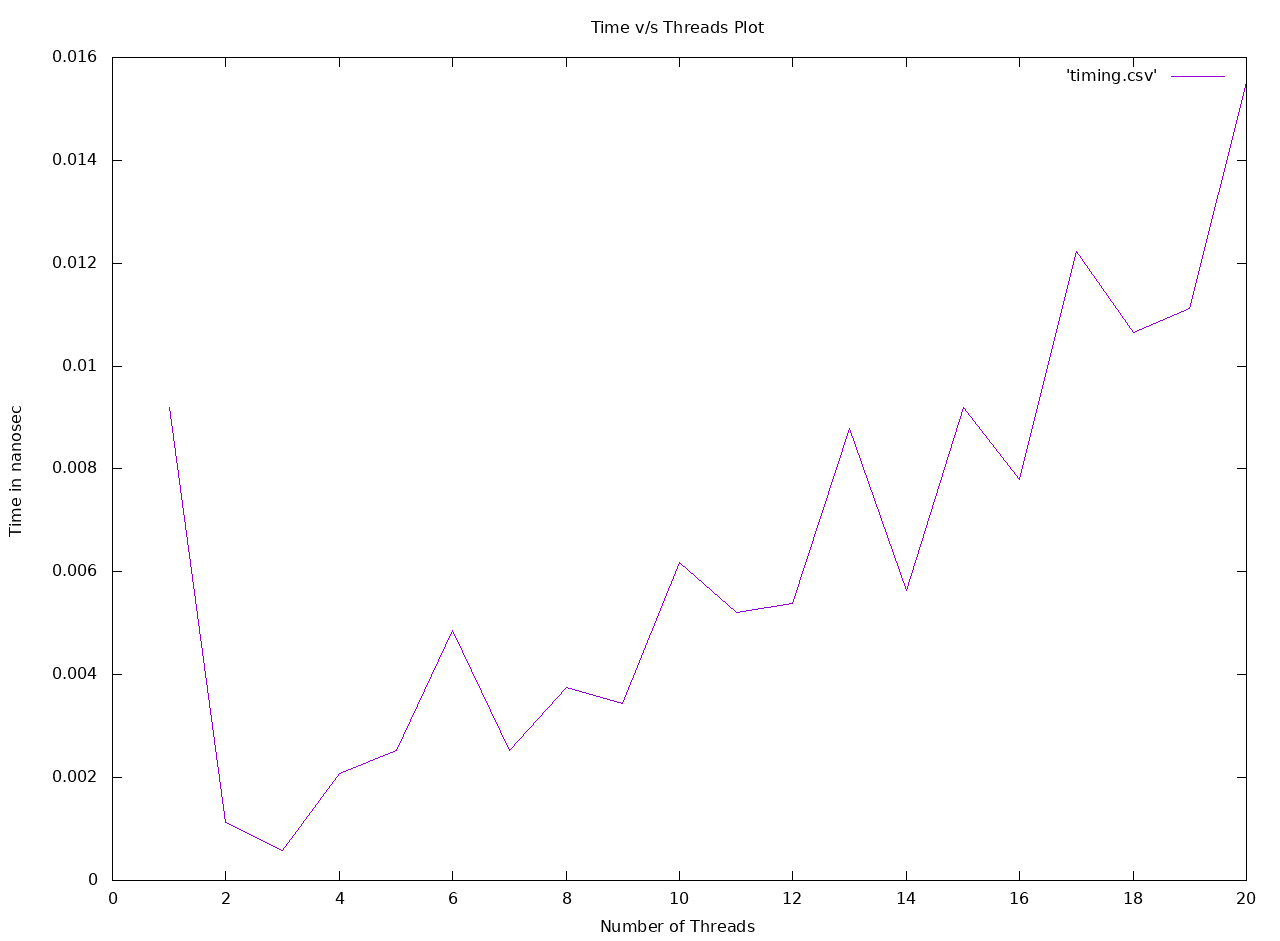
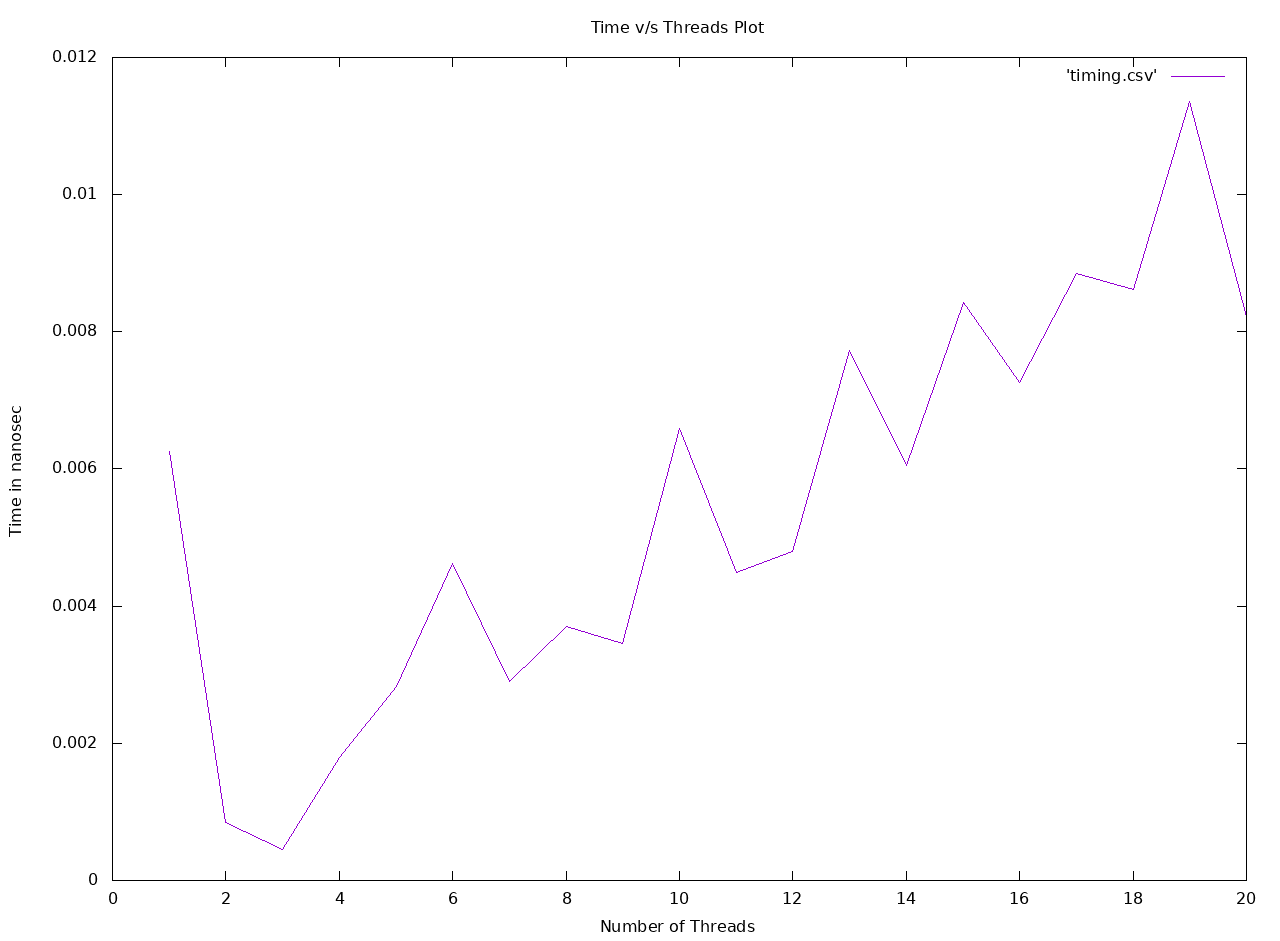
P1, P2 SHM working sequential

diff --git a/p2IPC.c b/p2IPC.c
@@ -38,12 +38,12 @@ typedef struct {
     int lines_per_thread;
 } file_read_data;
 
-
-/* function declarations  */
-int read_matrix (const char*);
-void *thread_read (void *);
-void create_threads_and_read (int, int, int, file_read_data, FILE *);
-
+typedef struct {
+    lli* row;
+    int row_no;
+    int start_column;
+    int end_column;
+} working_cells_data;
 
 /* single-threaded function to read matrix from the text file  */
 int read_matrix (const char* filename) {
@@ -87,7 +87,6 @@ int read_matrix (const char* filename) {
     fclose (fp); 
     return EXIT_SUCCESS;
 }
-
 
 
 void *thread_read (void *arg) {
@@ -142,59 +141,6 @@ void *thread_read (void *arg) {
 
     printf ("Thread execution completed successfully\n");
     fclose (fp);
-}
-
-void shared_memory (file_read_data file) {
-    /* get input file number from the file name  */
-    char *filename_as_string;
-    filename_as_string = (char *) malloc(10);
-    strcpy (filename_as_string, file.filename);
-    int file_number = filename_as_string[2] - '0';
-
-    // shmget returns an identifier in shmid
-    lli rows = file.max_rows;
-    lli cols = file.cols;
-
-    if (file_number == 1) {
-        key_t key1 = ftok(file.filename, 65);
-        // int shmid1 = shmget(key1, (rows) * sizeof (lli*), 0666|IPC_CREAT);
-        int shmid1 = shmget(key1, (cols) * sizeof (lli *), 0666|IPC_CREAT);
-        lli *str1 = (lli*) shmat(shmid1, 0, 0);
-
-        lli k = 0;
-        for (lli i = 0; i < rows; ++i){
-            for (lli j = 0; j < cols; ++j){
-                str1[k] = matrix1[i][j];
-                k++;
-            }
-        }
-
-        shmdt(str1);
-        shmctl (shmid1, IPC_RMID, NULL);
-    } else {
-        key_t key2 = ftok(file.filename, 66);
-        // matrix1 = (lli **) malloc (I *  sizeof (lli *));
-        int shmid2 = shmget(key2, rows * sizeof (lli *), 0666|IPC_CREAT);
-        // int shmid2 = shmget(key2, (rows * cols * sizeof (lli *)), 0666|IPC_CREAT);
-        // matrix2 = (lli **) malloc (J * sizeof (lli *));
-
-
-        // (rows) * (cols * sizeof (lli *))
-        lli **str2 = (lli**) shmat(shmid2, 0, 0);
-        for (lli _j = 0; _j < rows; ++_j) {
-            str2[_j] = (lli *) malloc(cols * sizeof(lli));
-        }
-
-        for (lli i = 0; i < rows; ++i) {
-            for (lli j = 0; j < cols; ++j) {
-                str2[i][j] = matrix2[i][j];
-            }
-        }
-
-        // str = matrix2;
-        shmdt(str2);
-        shmctl (shmid2, IPC_RMID, NULL);
-    }
 }
 
 /* function to create threads and read text file  */
@@ -253,6 +199,116 @@ void create_threads_and_read (int rows, int cols, int max_thread_count, file_rea
     // fclose (fp); 
 }
 
+
+void *thread_multiply (void *arg) {
+    printf ("In thread_multiply function\n");
+    working_cells_data data = *(working_cells_data*) arg;
+
+    // ? --- DEBUG STATEMENTS ---
+    // printf ("start_row: %d\n", start_row);
+    // printf ("end_row: %d\n", end_row);
+    // printf ("max_row: %lld\n", max_rows);
+    // printf ("cols: %d\n", cols);
+    for(int n=data.start_column; n<=data.end_column; n++)
+    {
+        output[data.row_no][n]=0;
+        for(int i=0; i<J; i++)
+        {
+            output[data.row_no][n] += data.row[i]*matrix2[i][n];
+        }
+        printf ("calculated cell: %lld\n", output[data.row_no][n]);
+    }
+    
+
+    printf ("Thread execution completed successfully\n");
+}
+
+void shared_memory (file_read_data file) {
+    /* get input file number from the file name  */
+    char *filename_as_string;
+    filename_as_string = (char *) malloc(10);
+    strcpy (filename_as_string, file.filename);
+    int file_number = filename_as_string[2] - '0';
+
+    // shmget returns an identifier in shmid
+    lli rows = file.max_rows;
+    lli cols = file.cols;
+
+    if (file_number == 1) {
+        key_t key1 = ftok(file.filename, 65);
+        // int shmid1 = shmget(key1, (rows) * sizeof (lli*), 0666|IPC_CREAT);
+        int shmid1 = shmget(key1, (cols) * sizeof (lli *), 0666|IPC_CREAT);
+        lli *str1 = (lli*) shmat(shmid1, 0, 0);
+
+        lli k = 0;
+        for (lli i = 0; i < rows; ++i){
+            for (lli j = 0; j < cols; ++j){
+                // printf ("%lld ", str1[k]);
+                matrix1[i][j] = str1[k];
+                k++;
+            }
+            printf ("\n");
+        }
+
+        // shmdt(str1);
+        // shmctl (shmid1, IPC_RMID, NULL);
+    } else {
+        key_t key2 = ftok(file.filename, 66);
+        // matrix1 = (lli **) malloc (I *  sizeof (lli *));
+        int shmid2 = shmget(key2, rows * cols * sizeof (lli *), 0666|IPC_CREAT);
+        // matrix2 = (lli **) malloc (J * sizeof (lli *));
+
+        lli *str2 = (lli*) shmat(shmid2, 0, 0);
+
+
+        printf ("Reading matrix 2 from IPC:\n");
+        for (lli i = 0; i < rows; ++i) {
+            for (lli j = 0; j < cols; ++j) {
+                // str2[i * rows + j] = matrix2[i][j];
+                // printf ("%lld ", str2[i * rows + j]);
+                matrix2[i][j] = str2[i * rows + j];
+            }
+            printf ("\n");
+        }
+
+        // str = matrix2;
+        // shmdt(str2);
+        // shmctl (shmid2, IPC_RMID, NULL);
+    }
+}
+
+void create_threads_and_multiply (int max_thread_count, lli* row, int row_no) {
+
+    pthread_t threads[max_thread_count];    // {t1, t2}
+    int cells_done = 0;
+    // printf ("max_thread_count: %d\n", max_thread_count);
+    for (int i = 0; i < max_thread_count; ++i) {
+        int cells_per_thread = (K / max_thread_count);
+
+        // last thread may have some extra lines to read
+        if(i == max_thread_count - 1) {
+            cells_per_thread += (K % max_thread_count);
+        }
+
+        printf ("cells done: %d\n", cells_done);
+        working_cells_data work_data = {
+            .row = row,
+            .row_no = row_no,
+            .start_column = cells_done,
+            .end_column = (cells_done+cells_per_thread-1)
+        };
+
+        pthread_mutex_lock(&lock);
+        if (pthread_create(&threads[i], NULL, thread_multiply, &work_data)) {
+            fprintf(stderr, "pthread_create failed!\n");
+            exit (EXIT_FAILURE);
+        }
+        pthread_mutex_unlock(&lock);
+        pthread_join (threads[i], NULL);
+        cells_done += cells_per_thread;
+        }
+}
+
 int main (int argc, char **argv) {
     
     /* there must be exactly 7 cmd line args  */
@@ -297,8 +353,8 @@ int main (int argc, char **argv) {
     strcpy(out, argv[6]);
 
     /* READING VALUES FROM TXT FILE INTO MATRICES  */
-    read_matrix (in1);
-    read_matrix (in2);
+    // read_matrix (in1);
+    // read_matrix (in2);
 
     /*
         num_threads: lines_read 
@@ -351,7 +407,17 @@ int main (int argc, char **argv) {
     system(cmd);
     printf ("Graph plotted successfully\n");
 
-    printf ("After reading matrix 1...\n");
+    file_read_data file1 = {.filename = in1, .cols = J, .matrix = matrix1, .max_rows = I};
+    file_read_data file2 = {.filename = in2, .cols = K, .matrix = matrix2, .max_rows = J};
+
+    printf ("Reading matrix 2 from IPC\n");
+    shared_memory (file2);
+    printf ("SHM matrix 2 done\n");
+    printf ("Reading matrix 1 from IPC\n");
+    shared_memory (file1);
+    printf ("SHM matrix 1 done\n");
+
+    printf ("Matrix 1 from IPC...\n");
     for (lli row = 0; row < I; ++row) {
         for (lli col = 0; col < J; ++col) {
             printf ("%lld ", matrix1[row][col]);
@@ -359,7 +425,7 @@ int main (int argc, char **argv) {
         printf ("\n");
     }
 
-    printf ("After reading matrix 2...\n");
+    printf ("Matrix 2 from IPC...\n");
     for (lli row = 0; row < J; ++row) {
         for (lli col = 0; col < K; ++col) {
             printf ("%lld ", matrix2[row][col]);
@@ -367,13 +433,22 @@ int main (int argc, char **argv) {
         printf ("\n");
     }
 
-    file_read_data file1 = {.filename = in1, .cols = J, .matrix = matrix1, .max_rows = I};
-    file_read_data file2 = {.filename = in2, .cols = K, .matrix = matrix2, .max_rows = J};
+    for (int i = 0; i < I; ++i) {
+        if(MAX_THREADS > J) {
+            create_threads_and_multiply (J, matrix1[i], i);
+        } else {
+            create_threads_and_multiply (MAX_THREADS, matrix1[i], i);
+        }
+        
+    }
 
-    shared_memory (file2);
-    printf ("SHM matrix 2 done\n");
-    shared_memory (file1);
-    printf ("SHM matrix 1 done\n");
+    printf ("FINAL OUTPUT...\n");
+    for (lli row = 0; row < I; ++row) {
+        for (lli col = 0; col < K; ++col) {
+            printf ("%lld ", output[row][col]);
+        }
+        printf ("\n");
+    }
 
     printf ("Program success\n");
 

diff --git a/p1IPC.c b/p1IPC.c
@@ -170,30 +170,30 @@ void shared_memory (file_read_data file) {
         }
 
         shmdt(str1);
-        shmctl (shmid1, IPC_RMID, NULL);
+        // shmctl (shmid1, IPC_RMID, NULL);
     } else {
         key_t key2 = ftok(file.filename, 66);
         // matrix1 = (lli **) malloc (I *  sizeof (lli *));
-        int shmid2 = shmget(key2, rows * sizeof (lli *), 0666|IPC_CREAT);
+        int shmid2 = shmget(key2, rows * cols * sizeof (lli *), 0666|IPC_CREAT);
         // int shmid2 = shmget(key2, (rows * cols * sizeof (lli *)), 0666|IPC_CREAT);
         // matrix2 = (lli **) malloc (J * sizeof (lli *));
 
 
         // (rows) * (cols * sizeof (lli *))
-        lli **str2 = (lli**) shmat(shmid2, 0, 0);
-        for (lli _j = 0; _j < rows; ++_j) {
-            str2[_j] = (lli *) malloc(cols * sizeof(lli));
-        }
+
+        lli *str2 = (lli*) shmat(shmid2, 0, 0);
 
         for (lli i = 0; i < rows; ++i) {
             for (lli j = 0; j < cols; ++j) {
-                str2[i][j] = matrix2[i][j];
+                str2[i * rows + j] = matrix2[i][j];
+                // str2[i][j] = matrix2[i][j];
+                printf ("%lld ", str2[i * rows + j]);
             }
+            printf ("\n");
         }
 
-        // str = matrix2;
         shmdt(str2);
-        shmctl (shmid2, IPC_RMID, NULL);
+        // shmctl (shmid2, IPC_RMID, NULL);
     }
 }
 
@@ -375,7 +375,7 @@ int main (int argc, char **argv) {
     shared_memory (file1);
     printf ("SHM matrix 1 done\n");
 
-    printf ("Program success\n");
+    printf ("Program success. Written into IPC...\n");
 
     return 0;
 }
